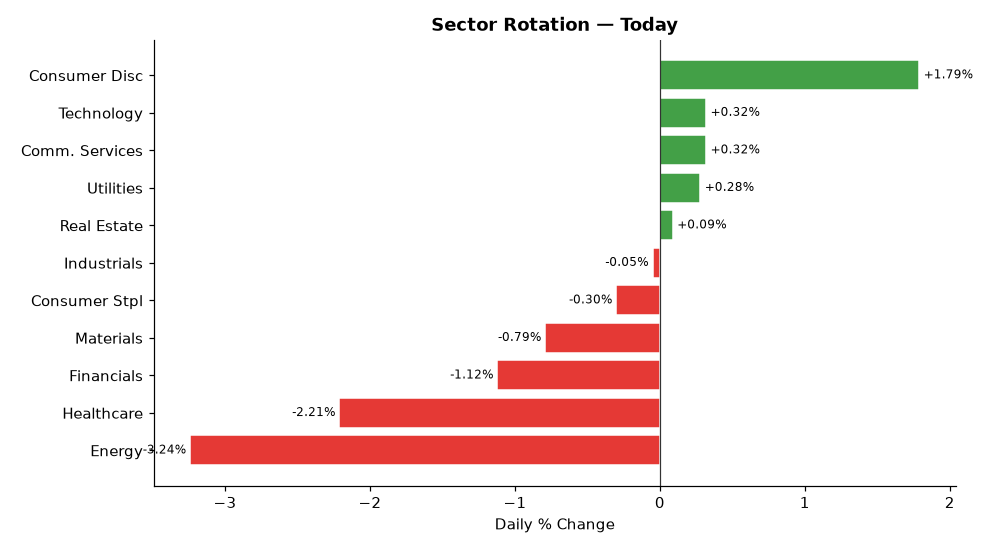
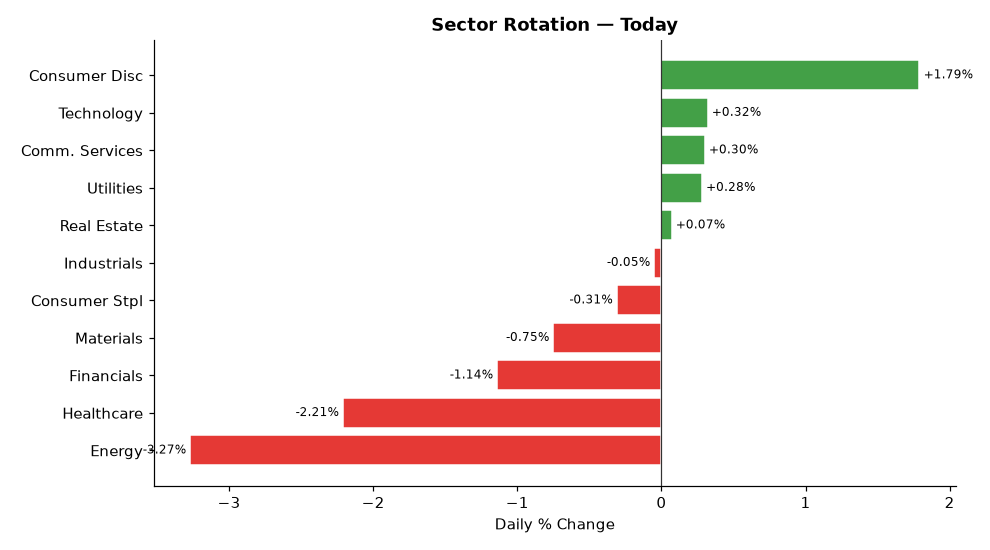
deploy: b7fadf5b06deb90e7ebb92f278722414bdd9750d

diff --git a/index.html b/index.html
@@ -4,7 +4,7 @@
   <meta charset="UTF-8">
   <meta name="viewport" content="width=device-width,initial-scale=1">
   <meta http-equiv="Cache-Control" content="no-cache,no-store,must-revalidate">
-  <title>Stock Breakout Screener — 2026-11-18 21:03</title>
+  <title>Stock Breakout Screener — 2026-11-18 21:29</title>
   <style>
     *{box-sizing:border-box;margin:0;padding:0}
     body{font-family:'Segoe UI',Arial,sans-serif;background:#f0f2f5;
@@ -34,7 +34,7 @@
 
 <div class="hdr">
   <h1>📈 Stock Breakout Screener</h1>
-  <p>Updated: 2026-11-18 21:03 UTC &nbsp;·&nbsp; Phase: After-Hours (4:00–8:00 PM ET) &nbsp;·&nbsp;
+  <p>Updated: 2026-11-18 21:29 UTC &nbsp;·&nbsp; Phase: After-Hours (4:00–8:00 PM ET) &nbsp;·&nbsp;
      129 stocks screened &nbsp;·&nbsp; Top 5 by conviction score</p>
 </div>
 
@@ -69,7 +69,7 @@
             </span>
           </div>
           <ul style="margin:0;padding-left:18px;font-size:13px;
-                     color:#333;line-height:1.8"><li style="margin:5px 0"><span style="background:#e8f5e9;color:#2e7d32;padding:2px 7px;border-radius:4px;font-size:11px;">✅</span> Volume: <b>2.5× average</b> — 🔥 Strong unusual activity</li><li style="margin:5px 0"><span style="background:#e8f5e9;color:#2e7d32;padding:2px 7px;border-radius:4px;font-size:11px;">✅</span> Candle: close <b>$165.96</b> vs open <b>$160.99</b> (+3.1%) — regular market close</li><li style="margin:5px 0"><span style="background:#e8f5e9;color:#2e7d32;padding:2px 7px;border-radius:4px;font-size:11px;">✅</span> 200-Day MA: price <b>$165.96</b> vs MA <b>$145.73</b> — <b>✅ Above</b> long-term trend</li><li style="margin:5px 0"><span style="background:#e8f5e9;color:#2e7d32;padding:2px 7px;border-radius:4px;font-size:11px;">✅</span> Inst. ownership: <b>89.2%</b> · MFI: <b>56.0</b> · Market cap: <b>$75.4B</b></li><li style="margin:5px 0"><span style="background:#fffde7;color:#f57f17;padding:2px 7px;border-radius:4px;font-size:11px;">⚠</span> Last similar breakout: <b>Aug 19, 2026</b> → <b>+2.7%</b> over 10 trading days</li></ul>
+                     color:#333;line-height:1.8"><li style="margin:5px 0"><span style="background:#e8f5e9;color:#2e7d32;padding:2px 7px;border-radius:4px;font-size:11px;">✅</span> Volume: <b>2.7× average</b> — 🔥 Strong unusual activity</li><li style="margin:5px 0"><span style="background:#e8f5e9;color:#2e7d32;padding:2px 7px;border-radius:4px;font-size:11px;">✅</span> Candle: close <b>$165.93</b> vs open <b>$160.99</b> (+3.1%) — regular market close</li><li style="margin:5px 0"><span style="background:#e8f5e9;color:#2e7d32;padding:2px 7px;border-radius:4px;font-size:11px;">✅</span> 200-Day MA: price <b>$165.93</b> vs MA <b>$145.73</b> — <b>✅ Above</b> long-term trend</li><li style="margin:5px 0"><span style="background:#e8f5e9;color:#2e7d32;padding:2px 7px;border-radius:4px;font-size:11px;">✅</span> Inst. ownership: <b>89.2%</b> · MFI: <b>56.5</b> · Market cap: <b>$75.4B</b></li><li style="margin:5px 0"><span style="background:#fffde7;color:#f57f17;padding:2px 7px;border-radius:4px;font-size:11px;">⚠</span> Last similar breakout: <b>Aug 19, 2026</b> → <b>+2.7%</b> over 10 trading days</li></ul>
         </div>
         <div style="background:#fff;border:1px solid #ddd;border-radius:10px;
                     padding:16px 20px;margin-bottom:12px;
@@ -86,7 +86,7 @@
             </span>
           </div>
           <ul style="margin:0;padding-left:18px;font-size:13px;
-                     color:#333;line-height:1.8"><li style="margin:5px 0"><span style="background:#fffde7;color:#f57f17;padding:2px 7px;border-radius:4px;font-size:11px;">⚠</span> Volume: <b>1.4× average</b> — Above-average activity</li><li style="margin:5px 0"><span style="background:#e8f5e9;color:#2e7d32;padding:2px 7px;border-radius:4px;font-size:11px;">✅</span> Candle: close <b>$222.73</b> vs open <b>$212.07</b> (+5.0%) — regular market close</li><li style="margin:5px 0"><span style="background:#e8f5e9;color:#2e7d32;padding:2px 7px;border-radius:4px;font-size:11px;">✅</span> 200-Day MA: price <b>$222.73</b> vs MA <b>$207.34</b> — <b>✅ Above</b> long-term trend</li><li style="margin:5px 0"><span style="background:#e8f5e9;color:#2e7d32;padding:2px 7px;border-radius:4px;font-size:11px;">✅</span> Inst. ownership: <b>81.1%</b> · MFI: <b>39.6</b> · Market cap: <b>$125.0B</b></li></ul>
+                     color:#333;line-height:1.8"><li style="margin:5px 0"><span style="background:#fffde7;color:#f57f17;padding:2px 7px;border-radius:4px;font-size:11px;">⚠</span> Volume: <b>1.6× average</b> — Above-average activity</li><li style="margin:5px 0"><span style="background:#e8f5e9;color:#2e7d32;padding:2px 7px;border-radius:4px;font-size:11px;">✅</span> Candle: close <b>$222.78</b> vs open <b>$212.07</b> (+5.1%) — regular market close</li><li style="margin:5px 0"><span style="background:#e8f5e9;color:#2e7d32;padding:2px 7px;border-radius:4px;font-size:11px;">✅</span> 200-Day MA: price <b>$222.78</b> vs MA <b>$207.34</b> — <b>✅ Above</b> long-term trend</li><li style="margin:5px 0"><span style="background:#e8f5e9;color:#2e7d32;padding:2px 7px;border-radius:4px;font-size:11px;">✅</span> Inst. ownership: <b>81.1%</b> · MFI: <b>39.2</b> · Market cap: <b>$125.0B</b></li></ul>
         </div>
         <div style="background:#fff;border:1px solid #ddd;border-radius:10px;
                     padding:16px 20px;margin-bottom:12px;
@@ -103,7 +103,7 @@
             </span>
           </div>
           <ul style="margin:0;padding-left:18px;font-size:13px;
-                     color:#333;line-height:1.8"><li style="margin:5px 0"><span style="background:#ffebee;color:#b71c1c;padding:2px 7px;border-radius:4px;font-size:11px;">❌</span> Volume: <b>0.9× average</b> — Above-average activity</li><li style="margin:5px 0"><span style="background:#e8f5e9;color:#2e7d32;padding:2px 7px;border-radius:4px;font-size:11px;">✅</span> Candle: close <b>$267.74</b> vs open <b>$259.81</b> (+3.1%) — regular market close</li><li style="margin:5px 0"><span style="background:#e8f5e9;color:#2e7d32;padding:2px 7px;border-radius:4px;font-size:11px;">✅</span> 200-Day MA: price <b>$267.74</b> vs MA <b>$253.76</b> — <b>✅ Above</b> long-term trend</li><li style="margin:5px 0"><span style="background:#e8f5e9;color:#2e7d32;padding:2px 7px;border-radius:4px;font-size:11px;">✅</span> Inst. ownership: <b>69.0%</b> · MFI: <b>48.3</b> · Market cap: <b>$2895.1B</b></li></ul>
+                     color:#333;line-height:1.8"><li style="margin:5px 0"><span style="background:#ffebee;color:#b71c1c;padding:2px 7px;border-radius:4px;font-size:11px;">❌</span> Volume: <b>0.9× average</b> — Above-average activity</li><li style="margin:5px 0"><span style="background:#e8f5e9;color:#2e7d32;padding:2px 7px;border-radius:4px;font-size:11px;">✅</span> Candle: close <b>$267.74</b> vs open <b>$259.81</b> (+3.1%) — regular market close</li><li style="margin:5px 0"><span style="background:#e8f5e9;color:#2e7d32;padding:2px 7px;border-radius:4px;font-size:11px;">✅</span> 200-Day MA: price <b>$267.74</b> vs MA <b>$253.76</b> — <b>✅ Above</b> long-term trend</li><li style="margin:5px 0"><span style="background:#e8f5e9;color:#2e7d32;padding:2px 7px;border-radius:4px;font-size:11px;">✅</span> Inst. ownership: <b>69.0%</b> · MFI: <b>48.4</b> · Market cap: <b>$2895.1B</b></li></ul>
         </div>
         <div style="background:#fff;border:1px solid #ddd;border-radius:10px;
                     padding:16px 20px;margin-bottom:12px;
@@ -120,7 +120,7 @@
             </span>
           </div>
           <ul style="margin:0;padding-left:18px;font-size:13px;
-                     color:#333;line-height:1.8"><li style="margin:5px 0"><span style="background:#fffde7;color:#f57f17;padding:2px 7px;border-radius:4px;font-size:11px;">⚠</span> Volume: <b>1.5× average</b> — Above-average activity</li><li style="margin:5px 0"><span style="background:#e8f5e9;color:#2e7d32;padding:2px 7px;border-radius:4px;font-size:11px;">✅</span> Candle: close <b>$122.37</b> vs open <b>$118.47</b> (+3.3%) — regular market close</li><li style="margin:5px 0"><span style="background:#e8f5e9;color:#2e7d32;padding:2px 7px;border-radius:4px;font-size:11px;">✅</span> 200-Day MA: price <b>$122.37</b> vs MA <b>$104.61</b> — <b>✅ Above</b> long-term trend</li><li style="margin:5px 0"><span style="background:#e8f5e9;color:#2e7d32;padding:2px 7px;border-radius:4px;font-size:11px;">✅</span> Inst. ownership: <b>78.3%</b> · MFI: <b>52.1</b> · Market cap: <b>$209.0B</b></li></ul>
+                     color:#333;line-height:1.8"><li style="margin:5px 0"><span style="background:#fffde7;color:#f57f17;padding:2px 7px;border-radius:4px;font-size:11px;">⚠</span> Volume: <b>1.7× average</b> — Above-average activity</li><li style="margin:5px 0"><span style="background:#e8f5e9;color:#2e7d32;padding:2px 7px;border-radius:4px;font-size:11px;">✅</span> Candle: close <b>$122.36</b> vs open <b>$118.47</b> (+3.3%) — regular market close</li><li style="margin:5px 0"><span style="background:#e8f5e9;color:#2e7d32;padding:2px 7px;border-radius:4px;font-size:11px;">✅</span> 200-Day MA: price <b>$122.36</b> vs MA <b>$104.61</b> — <b>✅ Above</b> long-term trend</li><li style="margin:5px 0"><span style="background:#e8f5e9;color:#2e7d32;padding:2px 7px;border-radius:4px;font-size:11px;">✅</span> Inst. ownership: <b>78.3%</b> · MFI: <b>52.9</b> · Market cap: <b>$209.0B</b></li></ul>
         </div>
         <div style="background:#fff;border:1px solid #ddd;border-radius:10px;
                     padding:16px 20px;margin-bottom:12px;
@@ -137,7 +137,7 @@
             </span>
           </div>
           <ul style="margin:0;padding-left:18px;font-size:13px;
-                     color:#333;line-height:1.8"><li style="margin:5px 0"><span style="background:#ffebee;color:#b71c1c;padding:2px 7px;border-radius:4px;font-size:11px;">❌</span> Volume: <b>0.9× average</b> — Above-average activity</li><li style="margin:5px 0"><span style="background:#ffebee;color:#b71c1c;padding:2px 7px;border-radius:4px;font-size:11px;">❌</span> Candle: close <b>$337.67</b> vs open <b>$331.24</b> (+1.9%) — regular market close</li><li style="margin:5px 0"><span style="background:#e8f5e9;color:#2e7d32;padding:2px 7px;border-radius:4px;font-size:11px;">✅</span> 200-Day MA: price <b>$337.67</b> vs MA <b>$323.40</b> — <b>✅ Above</b> long-term trend</li><li style="margin:5px 0"><span style="background:#e8f5e9;color:#2e7d32;padding:2px 7px;border-radius:4px;font-size:11px;">✅</span> Inst. ownership: <b>76.2%</b> · MFI: <b>55.4</b> · Market cap: <b>$336.9B</b></li></ul>
+                     color:#333;line-height:1.8"><li style="margin:5px 0"><span style="background:#ffebee;color:#b71c1c;padding:2px 7px;border-radius:4px;font-size:11px;">❌</span> Volume: <b>1.1× average</b> — Above-average activity</li><li style="margin:5px 0"><span style="background:#ffebee;color:#b71c1c;padding:2px 7px;border-radius:4px;font-size:11px;">❌</span> Candle: close <b>$337.64</b> vs open <b>$331.24</b> (+1.9%) — regular market close</li><li style="margin:5px 0"><span style="background:#e8f5e9;color:#2e7d32;padding:2px 7px;border-radius:4px;font-size:11px;">✅</span> 200-Day MA: price <b>$337.64</b> vs MA <b>$323.40</b> — <b>✅ Above</b> long-term trend</li><li style="margin:5px 0"><span style="background:#e8f5e9;color:#2e7d32;padding:2px 7px;border-radius:4px;font-size:11px;">✅</span> Inst. ownership: <b>76.2%</b> · MFI: <b>54.7</b> · Market cap: <b>$336.9B</b></li></ul>
         </div>
 
 
@@ -169,17 +169,17 @@
         <tr>
           <td style="font-weight:700;text-align:left;padding-left:10px">
             🟢 TGT</td>
-          <td style="background:#c8e6c9">2.5×</td>
+          <td style="background:#c8e6c9">2.7×</td>
           <td style="background:#c8e6c9">+3.1%</td>
           <td style="background:#c8e6c9">
             ▲ Above</td>
           <td style="background:#c8e6c9">
             89.2%</td>
           <td style="background:#fff9c4">
-            56.0</td>
+            56.5</td>
           <td style="background:#c8e6c9">Consumer Disc</td>
           <td style="background:#c8e6c9">
-            196.8%</td>
+            161.6%</td>
           <td style="background:#fff9c4">
             +2.7%</td>
           <td style="font-weight:800;font-size:15px">15/17</td>
@@ -187,17 +187,17 @@
         <tr>
           <td style="font-weight:700;text-align:left;padding-left:10px">
             🟢 LOW</td>
-          <td style="background:#fff9c4">1.4×</td>
-          <td style="background:#c8e6c9">+5.0%</td>
+          <td style="background:#fff9c4">1.6×</td>
+          <td style="background:#c8e6c9">+5.1%</td>
           <td style="background:#c8e6c9">
             ▲ Above</td>
           <td style="background:#c8e6c9">
             81.1%</td>
           <td style="background:#ffcdd2">
-            39.6</td>
+            39.2</td>
           <td style="background:#c8e6c9">Consumer Disc</td>
           <td style="background:#c8e6c9">
-            92.0%</td>
+            90.8%</td>
           <td style="background:#ffcdd2">
             N/A</td>
           <td style="font-weight:800;font-size:15px">12/17</td>
@@ -212,10 +212,10 @@
           <td style="background:#c8e6c9">
             69.0%</td>
           <td style="background:#ffcdd2">
-            48.3</td>
+            48.4</td>
           <td style="background:#c8e6c9">Consumer Disc</td>
           <td style="background:#c8e6c9">
-            47.9%</td>
+            85.1%</td>
           <td style="background:#ffcdd2">
             N/A</td>
           <td style="font-weight:800;font-size:15px">11/17</td>
@@ -223,17 +223,17 @@
         <tr>
           <td style="font-weight:700;text-align:left;padding-left:10px">
             🟡 DIS</td>
-          <td style="background:#fff9c4">1.5×</td>
+          <td style="background:#fff9c4">1.7×</td>
           <td style="background:#c8e6c9">+3.3%</td>
           <td style="background:#c8e6c9">
             ▲ Above</td>
           <td style="background:#c8e6c9">
             78.3%</td>
           <td style="background:#fff9c4">
-            52.1</td>
+            52.9</td>
           <td style="background:#fff9c4">Comm. Services</td>
           <td style="background:#c8e6c9">
-            109.6%</td>
+            109.5%</td>
           <td style="background:#ffcdd2">
             N/A</td>
           <td style="font-weight:800;font-size:15px">11/17</td>
@@ -241,17 +241,17 @@
         <tr>
           <td style="font-weight:700;text-align:left;padding-left:10px">
             🟡 HD</td>
-          <td style="background:#ffcdd2">0.9×</td>
+          <td style="background:#ffcdd2">1.1×</td>
           <td style="background:#ffcdd2">+1.9%</td>
           <td style="background:#c8e6c9">
             ▲ Above</td>
           <td style="background:#c8e6c9">
             76.2%</td>
           <td style="background:#fff9c4">
-            55.4</td>
+            54.7</td>
           <td style="background:#c8e6c9">Consumer Disc</td>
           <td style="background:#c8e6c9">
-            113.5%</td>
+            100.8%</td>
           <td style="background:#ffcdd2">
             N/A</td>
           <td style="font-weight:800;font-size:15px">10/17</td>
@@ -288,7 +288,7 @@
         <tr>
           <td style="text-align:left;padding-left:10px;font-weight:600">
             #3 Comm. Services</td>
-          <td style="background:#e8f5e9;color:#2e7d32;font-weight:700">+0.32%</td>
+          <td style="background:#e8f5e9;color:#2e7d32;font-weight:700">+0.30%</td>
         </tr>
         <tr>
           <td style="text-align:left;padding-left:10px;font-weight:600">
@@ -298,7 +298,7 @@
         <tr>
           <td style="text-align:left;padding-left:10px;font-weight:600">
             #5 Real Estate</td>
-          <td style="background:#e8f5e9;color:#2e7d32;font-weight:700">+0.09%</td>
+          <td style="background:#e8f5e9;color:#2e7d32;font-weight:700">+0.07%</td>
         </tr>
         <tr>
           <td style="text-align:left;padding-left:10px;font-weight:600">
@@ -308,17 +308,17 @@
         <tr>
           <td style="text-align:left;padding-left:10px;font-weight:600">
             #7 Consumer Stpl</td>
-          <td style="background:#ffebee;color:#c62828;font-weight:700">-0.30%</td>
+          <td style="background:#ffebee;color:#c62828;font-weight:700">-0.31%</td>
         </tr>
         <tr>
           <td style="text-align:left;padding-left:10px;font-weight:600">
             #8 Materials</td>
-          <td style="background:#ffebee;color:#c62828;font-weight:700">-0.79%</td>
+          <td style="background:#ffebee;color:#c62828;font-weight:700">-0.75%</td>
         </tr>
         <tr>
           <td style="text-align:left;padding-left:10px;font-weight:600">
             #9 Financials</td>
-          <td style="background:#ffebee;color:#c62828;font-weight:700">-1.12%</td>
+          <td style="background:#ffebee;color:#c62828;font-weight:700">-1.14%</td>
         </tr>
         <tr>
           <td style="text-align:left;padding-left:10px;font-weight:600">
@@ -328,7 +328,7 @@
         <tr>
           <td style="text-align:left;padding-left:10px;font-weight:600">
             #11 Energy</td>
-          <td style="background:#ffebee;color:#c62828;font-weight:700">-3.24%</td>
+          <td style="background:#ffebee;color:#c62828;font-weight:700">-3.27%</td>
         </tr>
     </table>
   </div>
@@ -367,7 +367,7 @@
         <li><b>Scoring weights:</b>
             Inst.Own(3) · Sector(3) · Volume(2) · Breakout(2) ·
             MA200(2) · MFI(2) · History(2) · IV(1) = 17pts max</li>
-        <li><b>Run time:</b> 2026-11-18 21:03 UTC — Market phase: After-Hours (4:00–8:00 PM ET)</li>
+        <li><b>Run time:</b> 2026-11-18 21:29 UTC — Market phase: After-Hours (4:00–8:00 PM ET)</li>
       </ul>
     </div>
 
